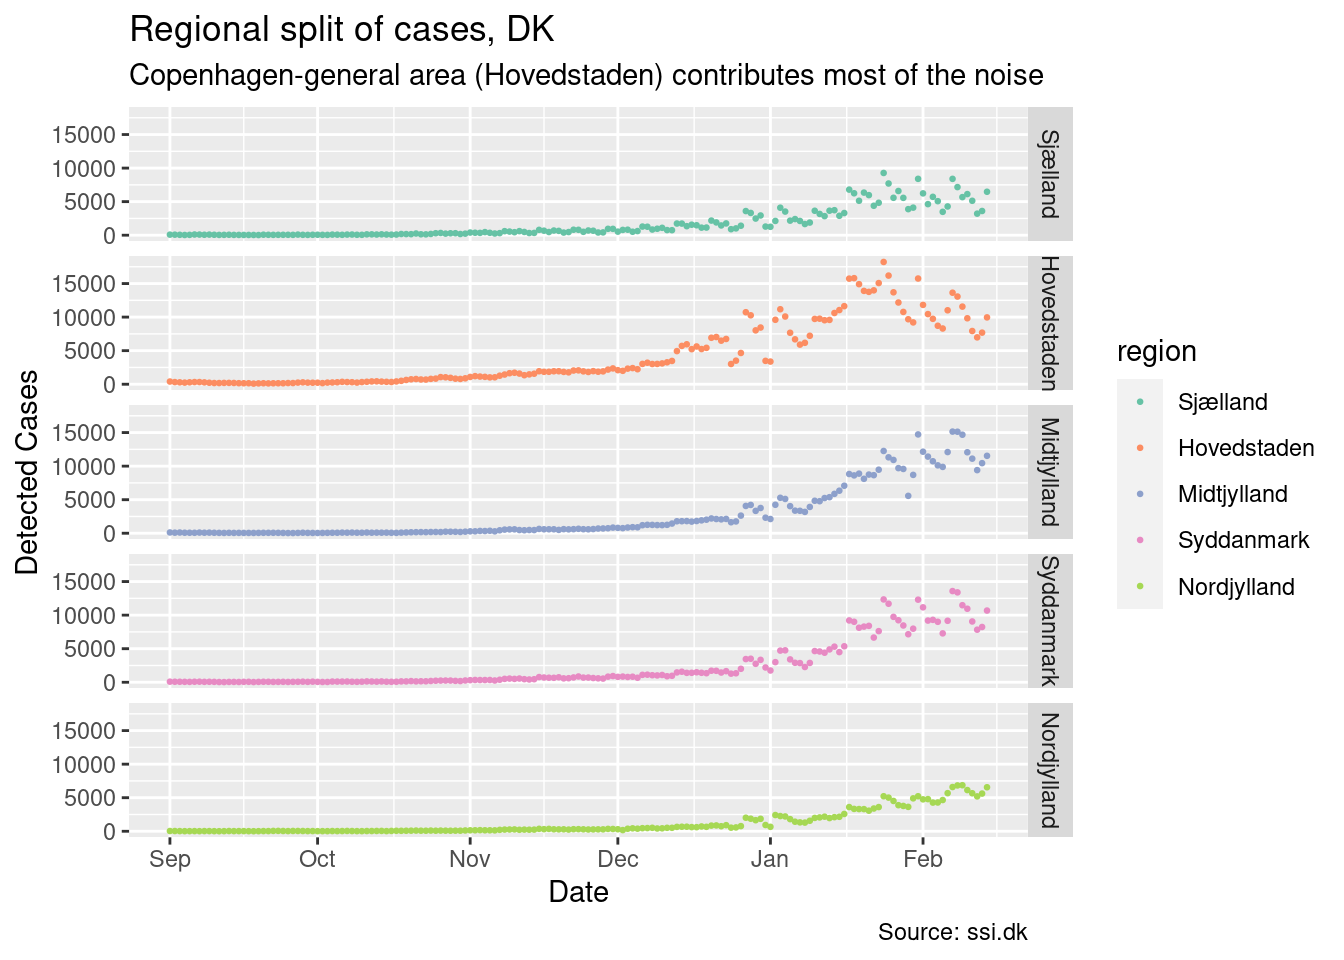
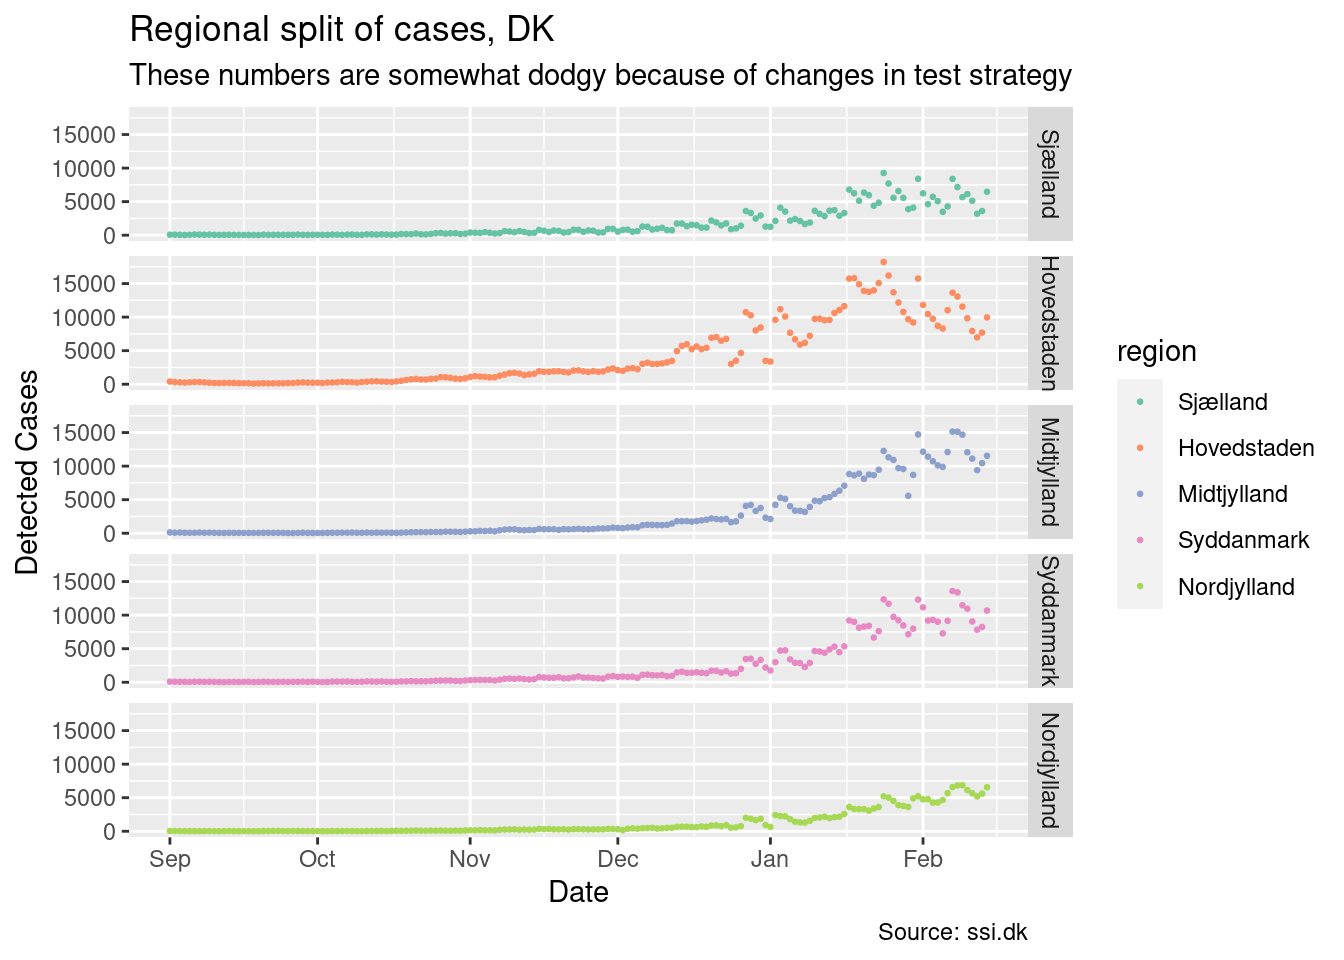
2022-02-17 upd.

Changed region(s): [[0.0938, 0.0625, 0.8125, 0.0938]]

diff --git a/docs/index.html b/docs/index.html
@@ -627,19 +627,29 @@ plot_day_of_week(p, &quot;Some days of the week has clear over/under-representat
 
 p &lt;- ggplot(regions, aes(x=date, y=cases))
 plot_regions(p, &quot;Regional split of cases, DK&quot;,
-                &quot;Copenhagen-general area (Hovedstaden) contributes most of the noise&quot;)</code></pre>
+                &quot;These numbers are somewhat dodgy because of changes in test strategy&quot;)</code></pre>
 <p><img src="index_files/figure-html/regional-cases-1.png" width="672" /></p>
-<p>We can also visualize regional new hospitalizations:</p>
+<p>We can also visualize regional new hospitalizations and deaths:</p>
 <pre class="r"><code>p &lt;- ggplot(regions, aes(x=date, y=hospitalizations))
 p + geom_point(aes(color=region), size=.5) +
     facet_grid(rows=vars(region)) +
     scale_colour_brewer(palette=&quot;Set2&quot;) +
     labs(title = &quot;Regional split of Hospitalizations, DK&quot;,
-         subtitle = &quot;Copenhagen-general area (Hovedstaden) contributes most of the noise&quot;,
+         subtitle = &quot;Data provides an upper bound on the actual hospitalization count&quot;,
          caption = &quot;Source: ssi.dk&quot;,
          x = &quot;Date&quot;,
          y = &quot;New Hospitalizations&quot;)</code></pre>
 <p><img src="index_files/figure-html/regional-hospitalizations-1.png" width="672" /></p>
+<pre class="r"><code>p &lt;- ggplot(regions, aes(x=date, y=deaths))
+p + geom_point(aes(color=region), size=.5) +
+    facet_grid(rows=vars(region)) +
+    scale_colour_brewer(palette=&quot;Set2&quot;) +
+    labs(title = &quot;Regional split of Deaths, DK&quot;,
+         subtitle = &quot;Data provides an upper bound on the actual death count&quot;,
+         caption = &quot;Source: ssi.dk&quot;,
+         x = &quot;Date&quot;,
+         y = &quot;New Deaths&quot;)</code></pre>
+<p><img src="index_files/figure-html/regional-deaths-1.png" width="672" /></p>
 </div>
 </div>
 <div id="weekly-data" class="section level2">
